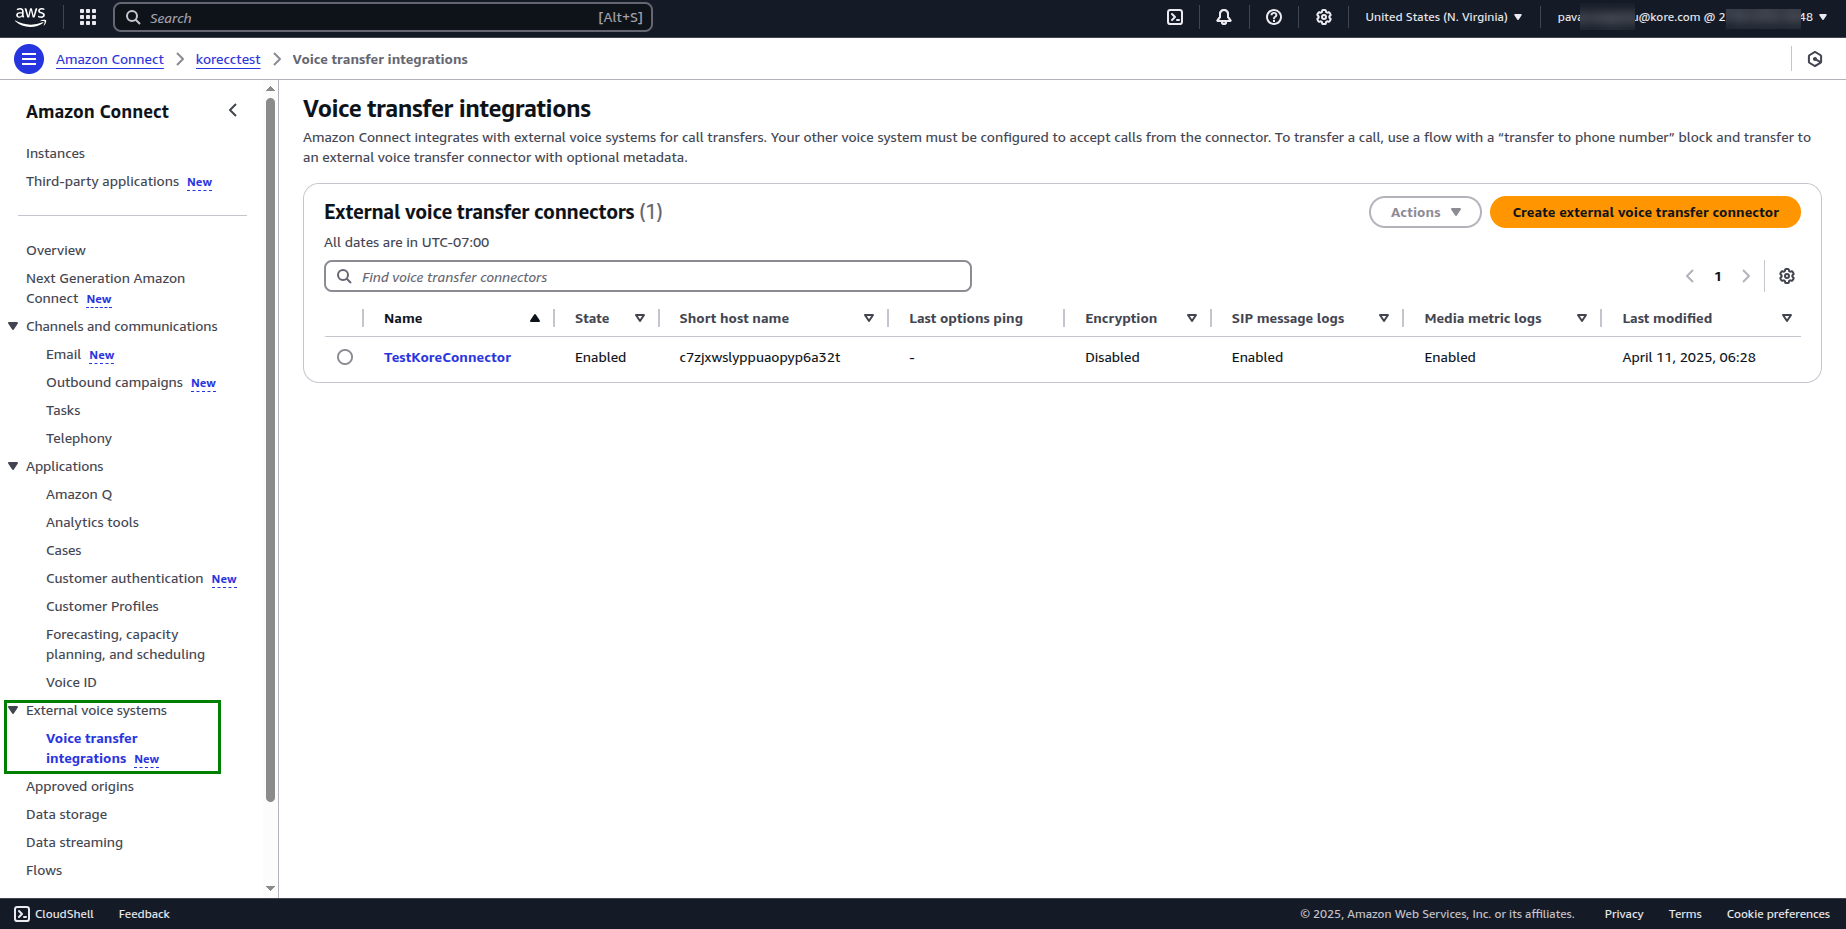
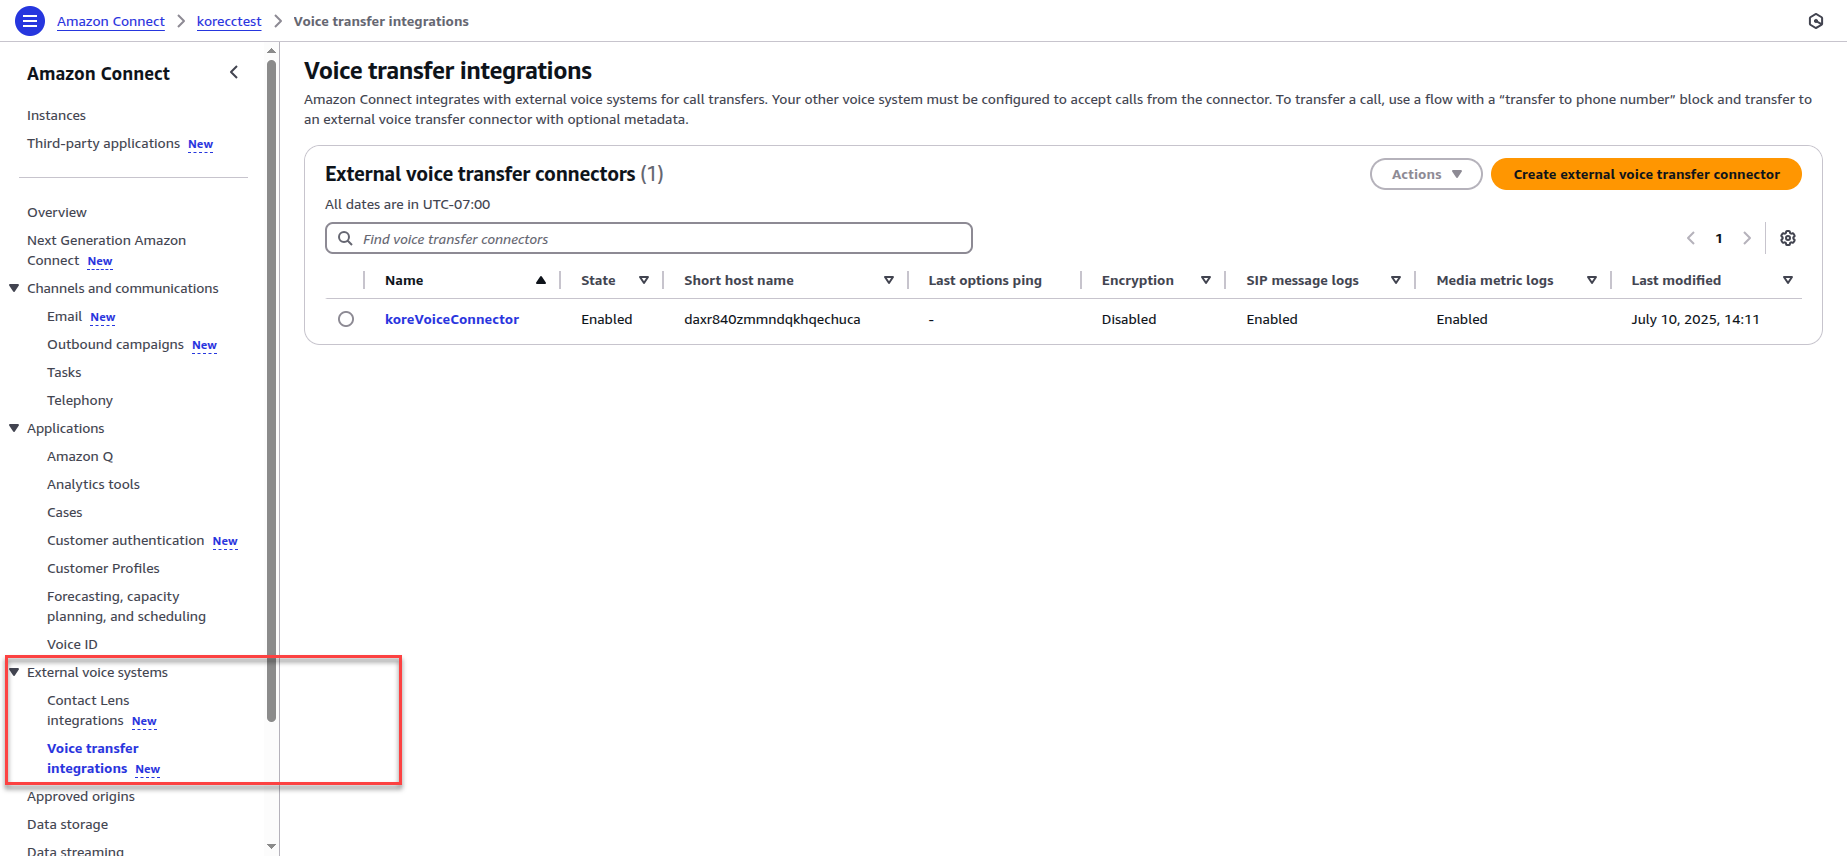
screenshots and configuration updates

Changed region(s): [[0.0, 0.0, 1.0, 0.3949], [0.0, 0.243, 1.0, 1.0], [0.7411, 0.1822, 0.9881, 0.3037]]

diff --git a/docs/xo/agentai/integration/amazon-connect-voice-automation/amazon-connect-integration-using-voice-automation.md b/docs/xo/agentai/integration/amazon-connect-voice-automation/amazon-connect-integration-using-voice-automation.md
@@ -27,8 +27,9 @@ After enabling the feature, create a connector under **Voice transfer integratio
 * **Connector Configuration**:
     * **Name**: Provide any desired name for the connector.
     * **Connector destination type**: Select **audio code** from the dropdown list.
-    * **Voice system type**: Select one or multiple options; it does not affect the functionality.
-    * **Enable Logs**: Ensure this option is enabled.
+    * **Voice system type**: Select one or multiple options; it does not affect the functionality. 
+    * **Encryption**: Select **Disabled**.  
+    * **Logging**: Select the option(s) to view the corresponding log in Connector Logs. It is recommended to select both the options.  
 * **Host and Port Details**: After creation, the connector configuration displays the IP address of the host, the protocol, and the port. This port should correspond to your Voice Gateway environment.
 * After the final configuration, it appears something like the following screenshot:  
 <img src="../images/test-kore-connector-3.png" alt="test-kore-connector" title="free text" style="border: 1px solid gray; zoom:80%;">  
